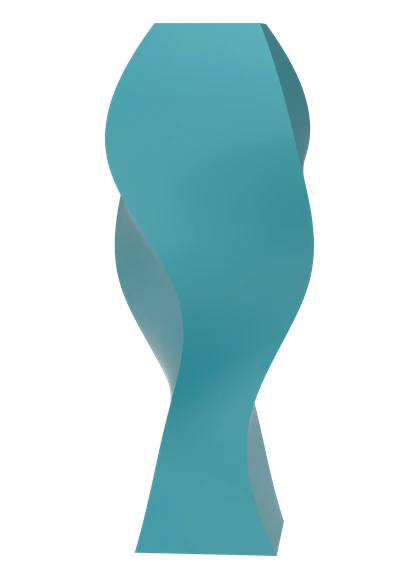
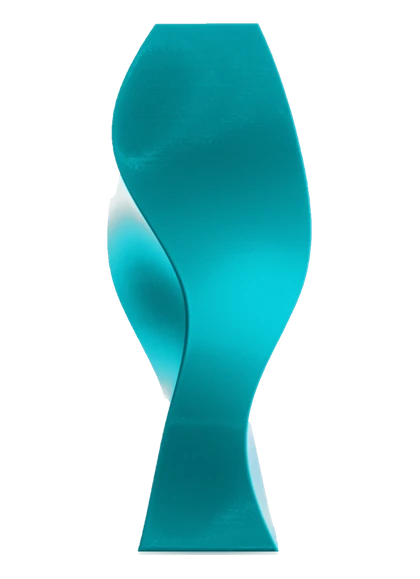
Torsione: render colori dalla foto ricolorata (versione pastello) nella pagina prodotto e nel carrello
Claude-Session: https://claude.ai/code/session_01MGUzPwoANoWLSiTiaRQqM2

diff --git a/prodotto-torsione.html b/prodotto-torsione.html
@@ -520,7 +520,7 @@
         </div>
         <!-- ⏳ Immagine provvisoria (render 3D): da sostituire con una foto vera quando arriva -->
         <div class="reveal reveal-delay-2" style="background:var(--bg2); border-radius:2px; aspect-ratio:4/5; display:flex; align-items:center; justify-content:center;">
-          <img src="images/Torsione/colori/torsione-rose.webp?v=c3" alt="Vaso Torsione rosè (immagine 3D)" loading="lazy" style="width:100%; height:100%; object-fit:contain; mix-blend-mode:multiply;">
+          <img src="images/Torsione/colori/torsione-rose.webp?v=c4" alt="Vaso Torsione rosè (immagine 3D)" loading="lazy" style="width:100%; height:100%; object-fit:contain; mix-blend-mode:multiply;">
         </div>
       </div>
     </div>
@@ -665,17 +665,17 @@
     /* Il render del vaso in ogni colore (sito, luce uguale per tutti). Compare nel
        riquadro solo quando si tocca il pallino: NON e' fra le miniature. */
     var COLORI = {
-      "#a3444d":"images/Torsione/colori/torsione-red-wine.webp?v=c3",
-      "#91535d":"images/Torsione/colori/torsione-bordeaux.webp?v=c3",
-      "#bcbfb0":"images/Torsione/colori/torsione-sage.webp?v=c3",
-      "#646666":"images/Torsione/colori/torsione-antracite.webp?v=c3",
-      "#d8d0cd":"images/Torsione/colori/torsione-off-white.webp?v=c3",
-      "#e7cac0":"images/Torsione/colori/torsione-rose.webp?v=c3",
-      "#0095a1":"images/Torsione/colori/torsione-blu-lagoon.webp?v=c3",
-      "#6b1492":"images/Torsione/colori/torsione-viola.webp?v=c3",
-      "#dd1d76":"images/Torsione/colori/torsione-magenta.webp?v=c3",
-      "#346371":"images/Torsione/colori/torsione-emerald-green.webp?v=c3",
-      "#e0bf42":"images/Torsione/colori/torsione-golden.webp?v=c3"
+      "#a3444d":"images/Torsione/colori/torsione-red-wine.webp?v=c4",
+      "#91535d":"images/Torsione/colori/torsione-bordeaux.webp?v=c4",
+      "#bcbfb0":"images/Torsione/colori/torsione-sage.webp?v=c4",
+      "#646666":"images/Torsione/colori/torsione-antracite.webp?v=c4",
+      "#d8d0cd":"images/Torsione/colori/torsione-off-white.webp?v=c4",
+      "#e7cac0":"images/Torsione/colori/torsione-rose.webp?v=c4",
+      "#0095a1":"images/Torsione/colori/torsione-blu-lagoon.webp?v=c4",
+      "#6b1492":"images/Torsione/colori/torsione-viola.webp?v=c4",
+      "#dd1d76":"images/Torsione/colori/torsione-magenta.webp?v=c4",
+      "#346371":"images/Torsione/colori/torsione-emerald-green.webp?v=c4",
+      "#e0bf42":"images/Torsione/colori/torsione-golden.webp?v=c4"
     };
 
     var stato = { vista:'foto', da:'foto', foto:0, color:'#a3444d', nomeColore:'Red Wine', modelloAvviato:false };
